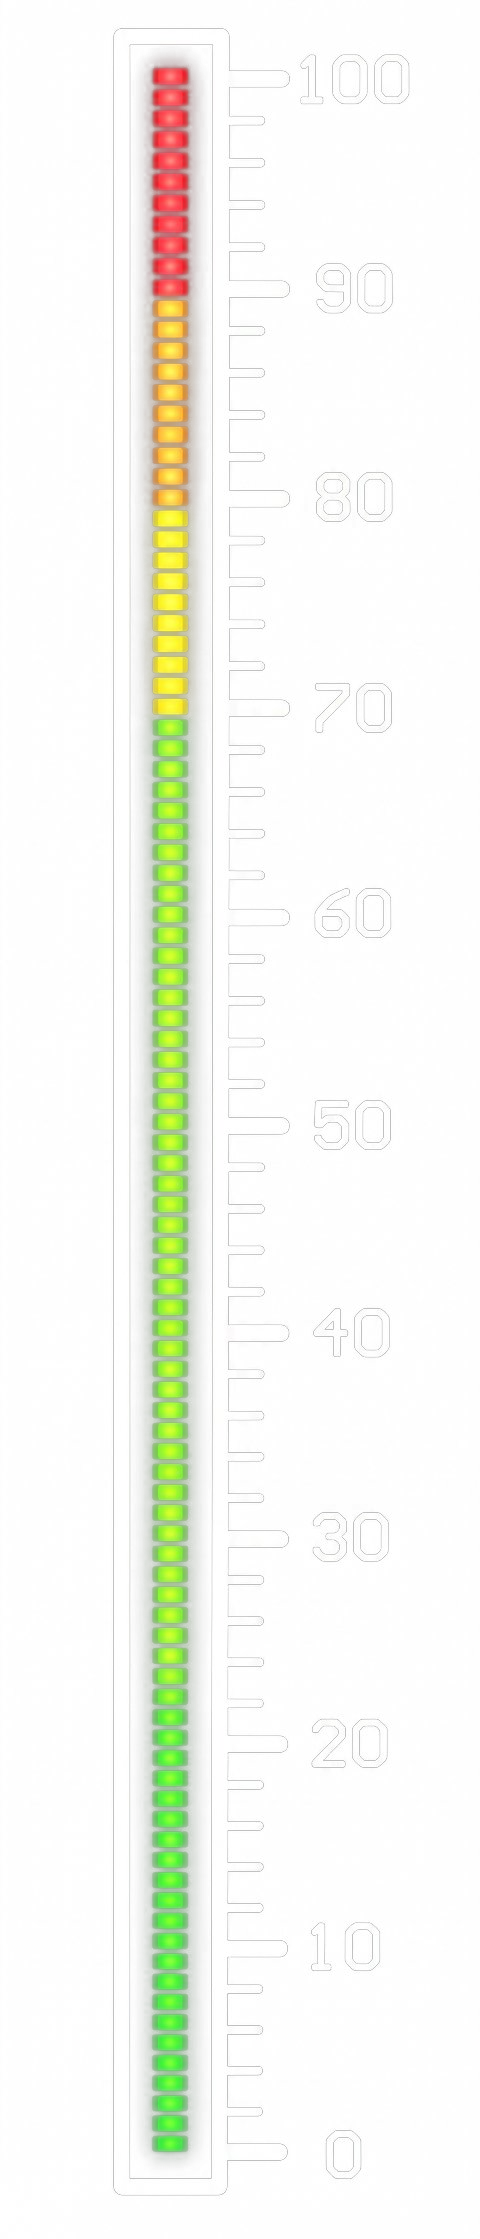
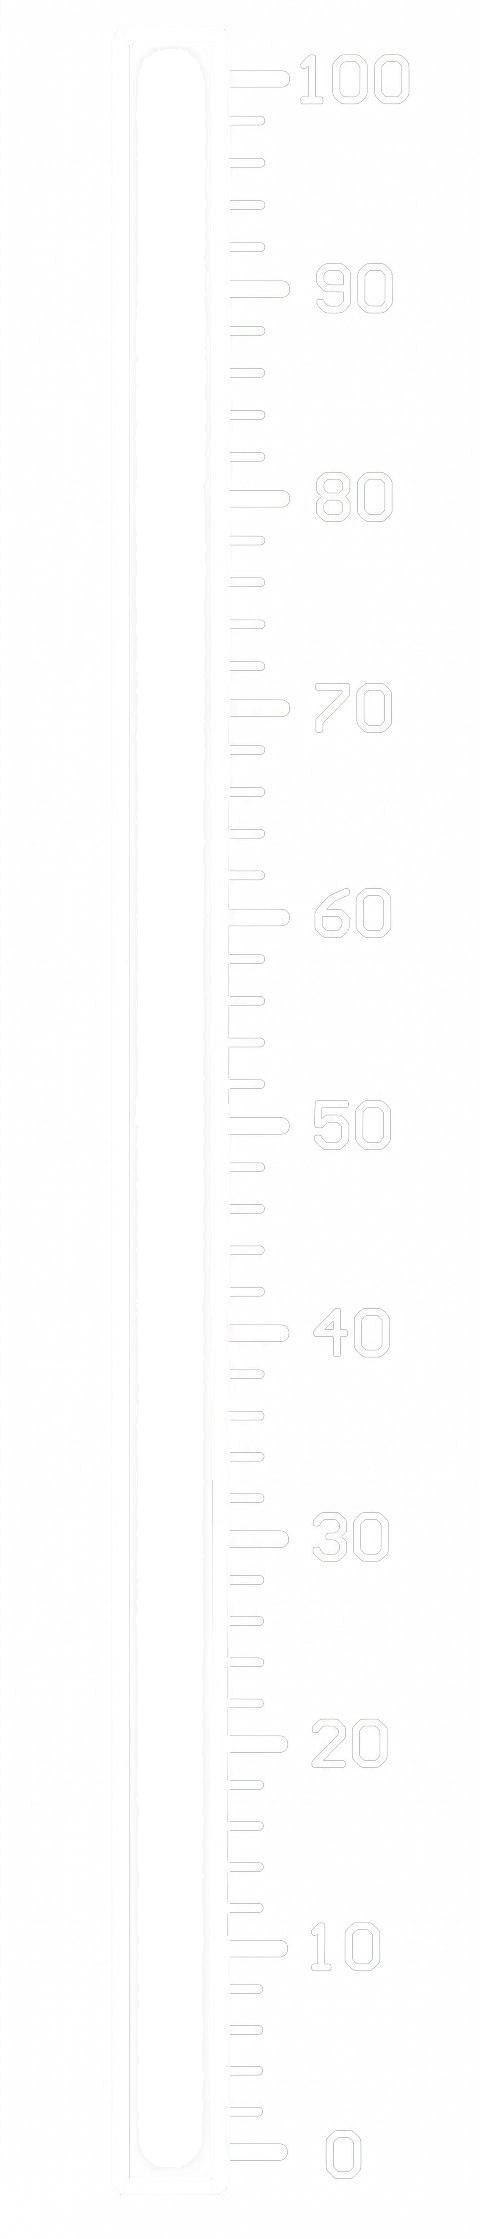
🪳 Zerg meter: bar is now cut transparent inside and outlined — the LED segments are gone (hollow white frame, stream shows through), scale + roach + laser unchanged; bg pin bg2

Changed region(s): [[0.2812, 0.0, 0.4375, 0.9862]]

diff --git a/zerg-meter.html b/zerg-meter.html
@@ -66,7 +66,7 @@
 </head>
 <body>
   <main class="zm" id="zergMeter" role="img" aria-label="Live Zerg meter">
-    <img class="zm-bg" src="assets/zerg-meter-bg.png" alt="">
+    <img class="zm-bg" src="assets/zerg-meter-bg.png?v=20261113-bg2" alt="">
     <div class="zm-laser" id="zmLaser" hidden></div>
     <img class="zm-roach" id="zmRoach" src="assets/zerg-roach.png?v=20261113-roach3" alt="" hidden>
   </main>
